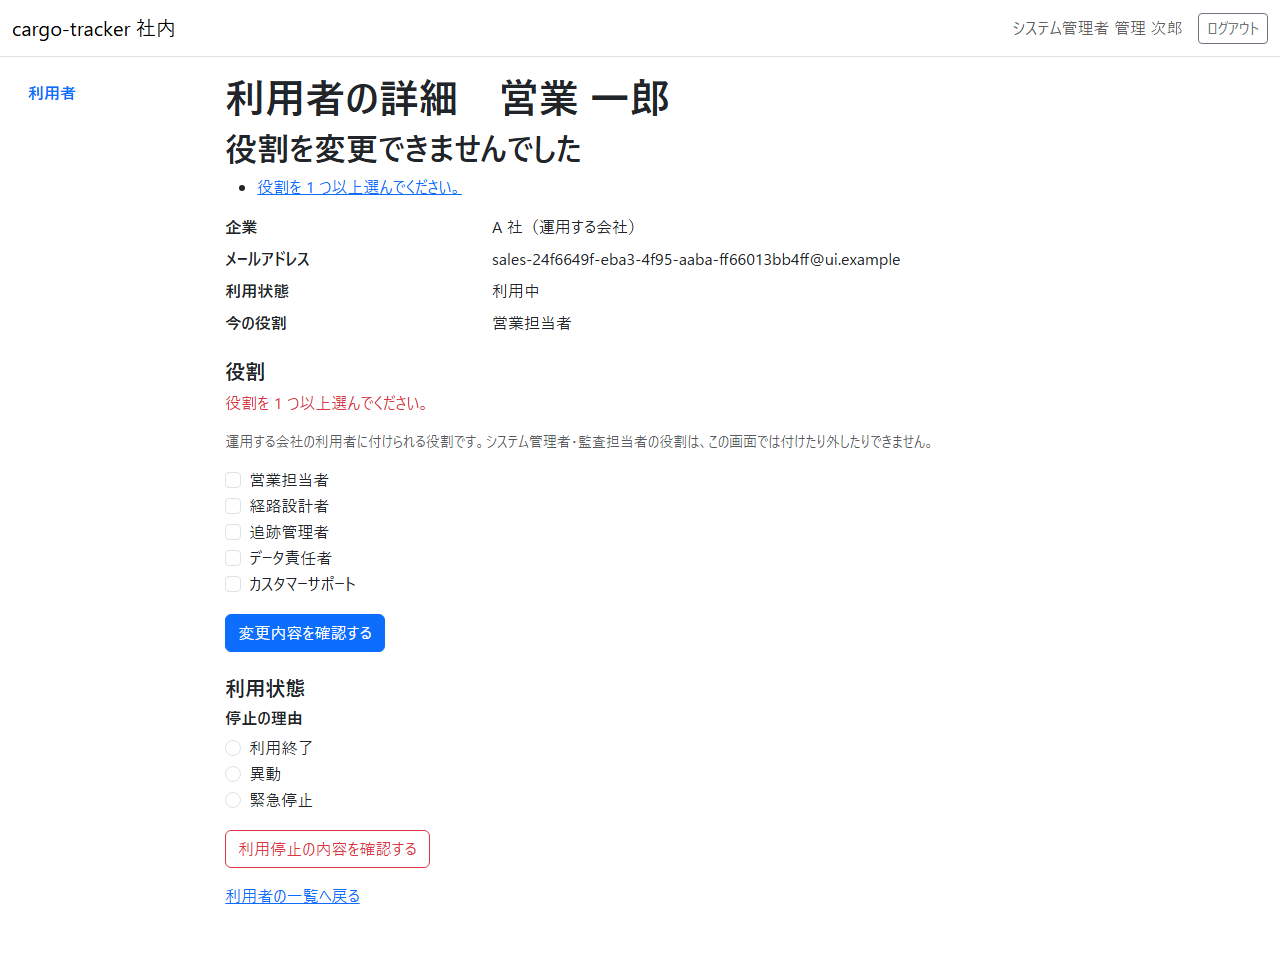
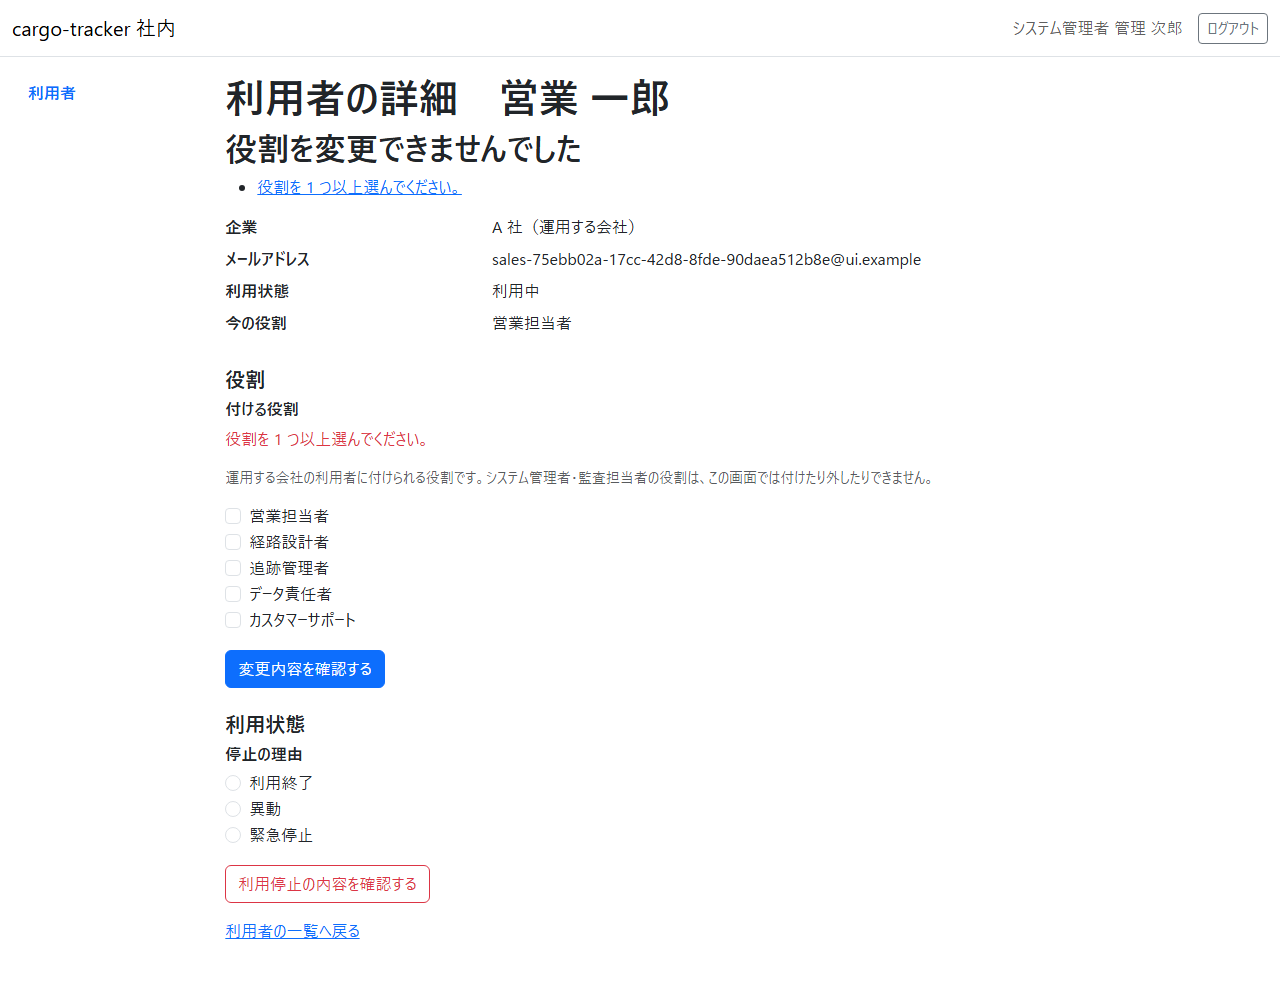
feat(identity): S-20 の役割の領域に見出し「役割」を付け、欄の名前を「付ける役割」にする
詳細の役割の領域を利用状態の領域と同じ形の section と h2「役割」にし、自分と
荷受人の企業の利用者の案内も領域の中に置いた。fieldset の legend は「付ける役割」。
先に画面の層の受入シナリオを足して落ちることを確かめた。マニュアル 11.2 の説明と
詳細を撮るキャプチャ 2 枚を撮り直した（ほかの画像の差分は戻した）。

Claude-Session: https://claude.ai/code/session_01LDW6HVmiazMbqbG4c8UQGq

diff --git a/apps/cargo-tracker/src/main/resources/templates/identity/users/detail.html b/apps/cargo-tracker/src/main/resources/templates/identity/users/detail.html
@@ -30,31 +30,35 @@
         <dt class="col-sm-3">今の役割</dt>
         <dd class="col-sm-9" id="current-roles" th:text="${currentRoles}">営業担当者</dd>
     </dl>
-    <p th:if="${self}" id="self-note">自分の役割は変更できません。ほかのシステム管理者に依頼してください。</p>
-    <p th:if="${!self and !assignable}" id="unassignable-note"
-       th:text="|${companyKindName}の利用者には役割を付けません。|">荷受人の企業の利用者には役割を付けません。</p>
-    <form th:if="${!self and assignable}" method="get"
-          th:action="@{/staff/users/{id}/role-changes/confirmation(id=${user.id.value})}">
-        <input type="hidden" name="version" th:value="${version}">
-        <input type="hidden" name="roles" th:each="role : ${keptRoles}" th:value="${role}">
-        <fieldset id="roles" th:attr="aria-describedby=${error != null and error.field} ? 'roles-error' : null">
-            <legend class="h5">役割</legend>
-            <p th:if="${error != null and error.field}" id="roles-error" class="text-danger" th:text="${error.text}">役割を 1 つ以上選んでください。</p>
-            <p class="form-text" th:text="|${companyKindName}の利用者に付けられる役割です。システム管理者・監査担当者の役割は、この画面では付けたり外したりできません。|">
-                運用する会社の利用者に付けられる役割です。
-            </p>
-            <div class="form-check" th:each="option : ${roleOptions}">
-                <input class="form-check-input" type="checkbox" name="roles"
-                       th:id="|role-${option.role.name()}|" th:value="${option.role.name()}"
-                       th:checked="${option.selected}">
-                <label class="form-check-label" th:for="|role-${option.role.name()}|"
-                       th:text="${option.role.displayName}">営業担当者</label>
-            </div>
-            <p th:unless="${#lists.isEmpty(keptRoles)}" class="form-text"
-               th:text="|この画面で変更しない役割（${keptRoleNames}）は、そのまま残ります。|">この画面で変更しない役割（監査担当者）は、そのまま残ります。</p>
-        </fieldset>
-        <button type="submit" class="btn btn-primary mt-3">変更内容を確認する</button>
-    </form>
+    <!--/* 役割の領域（Bolt 34f）。利用状態の領域と同じ形の見出しを付け、自分と荷受人の企業の利用者の案内も領域の中に置く */-->
+    <section class="mt-4" aria-labelledby="roles-title">
+        <h2 id="roles-title" class="h5">役割</h2>
+        <p th:if="${self}" id="self-note">自分の役割は変更できません。ほかのシステム管理者に依頼してください。</p>
+        <p th:if="${!self and !assignable}" id="unassignable-note"
+           th:text="|${companyKindName}の利用者には役割を付けません。|">荷受人の企業の利用者には役割を付けません。</p>
+        <form th:if="${!self and assignable}" method="get"
+              th:action="@{/staff/users/{id}/role-changes/confirmation(id=${user.id.value})}">
+            <input type="hidden" name="version" th:value="${version}">
+            <input type="hidden" name="roles" th:each="role : ${keptRoles}" th:value="${role}">
+            <fieldset id="roles" th:attr="aria-describedby=${error != null and error.field} ? 'roles-error' : null">
+                <legend class="h6">付ける役割</legend>
+                <p th:if="${error != null and error.field}" id="roles-error" class="text-danger" th:text="${error.text}">役割を 1 つ以上選んでください。</p>
+                <p class="form-text" th:text="|${companyKindName}の利用者に付けられる役割です。システム管理者・監査担当者の役割は、この画面では付けたり外したりできません。|">
+                    運用する会社の利用者に付けられる役割です。
+                </p>
+                <div class="form-check" th:each="option : ${roleOptions}">
+                    <input class="form-check-input" type="checkbox" name="roles"
+                           th:id="|role-${option.role.name()}|" th:value="${option.role.name()}"
+                           th:checked="${option.selected}">
+                    <label class="form-check-label" th:for="|role-${option.role.name()}|"
+                           th:text="${option.role.displayName}">営業担当者</label>
+                </div>
+                <p th:unless="${#lists.isEmpty(keptRoles)}" class="form-text"
+                   th:text="|この画面で変更しない役割（${keptRoleNames}）は、そのまま残ります。|">この画面で変更しない役割（監査担当者）は、そのまま残ります。</p>
+            </fieldset>
+            <button type="submit" class="btn btn-primary mt-3">変更内容を確認する</button>
+        </form>
+    </section>
     <!--/* 利用状態の領域（Bolt 34d。US-16 AC5）。役割の領域と別にし、荷受人の企業の利用者にも出す。自分と監督の役割の利用者には操作を出さない */-->
     <section class="mt-4" aria-labelledby="status-title">
         <h2 id="status-title" class="h5">利用状態</h2>

diff --git a/apps/cargo-tracker/src/test/java/com/example/cargotracker/ui/UserAdministrationUiSteps.java b/apps/cargo-tracker/src/test/java/com/example/cargotracker/ui/UserAdministrationUiSteps.java
@@ -136,6 +136,25 @@ public class UserAdministrationUiSteps {
         browser.checkAccessibility();
     }
 
+    @ならば("詳細に見出し {string} の領域と見出し {string} の領域があり、役割の領域の欄の名前は {string} である")
+    public void 役割の領域の見出しと欄の名前(String roles, String status, String field) {
+        Locator rolesRegion = region(roles);
+        assertThat(rolesRegion.getByRole(AriaRole.HEADING, new Locator.GetByRoleOptions().setLevel(2)))
+                .hasText(roles);
+        assertThat(rolesRegion.getByRole(
+                        AriaRole.GROUP,
+                        new Locator.GetByRoleOptions().setName(field).setExact(true)))
+                .isVisible();
+        assertThat(region(status).getByRole(AriaRole.HEADING, new Locator.GetByRoleOptions().setLevel(2)))
+                .hasText(status);
+    }
+
+    private Locator region(String name) {
+        return page().getByRole(
+                        AriaRole.REGION,
+                        new Page.GetByRoleOptions().setName(name).setExact(true));
+    }
+
     @ならば("{string} と示され、役割を選ぶ欄はない")
     public void 案内が示され欄がない(String message) {
         assertThat(page().locator("main")).containsText(message);

diff --git a/docs/manual/11-利用者の管理.md b/docs/manual/11-利用者の管理.md
@@ -4,7 +4,7 @@ title: "11 章 利用者の管理"
 description: "システム管理者が、利用者の一覧と詳細を確かめ、利用者の役割を確認の画面を経て付けたり外したりし、利用者の利用を停止し再開する手順です。"
 tags: [manual,cargo-tracker]
 status: draft
-generated: { by: anthropic/claude-opus-5-5, at: 2026-10-17T02:40:37Z }
+generated: { by: anthropic/claude-opus-5-5, at: 2026-10-18T12:20:32Z }
 ---
 
 # 11 章 利用者の管理
@@ -74,16 +74,16 @@ generated: { by: anthropic/claude-opus-5-5, at: 2026-10-17T02:40:37Z }
 | :--- | :--- | :--- |
 | ① | 企業 | 所属する企業と、その種類（荷主企業・荷受人の企業・運用する会社） |
 | ② | 今の役割 | 利用者がいま持つ役割 |
-| ③ | 役割 | 変更した後に持たせる役割に印を付けます。利用者の企業の種類に付けられる業務の役割だけが並びます（荷主企業の利用者は荷主担当者、運用する会社の利用者はほかの 5 つ） |
+| ③ | 役割（見出し「役割」の領域） | 「付ける役割」の欄で、変更した後に持たせる役割に印を付けます。利用者の企業の種類に付けられる業務の役割だけが並びます（荷主企業の利用者は荷主担当者、運用する会社の利用者はほかの 5 つ） |
 | ④ | 利用状態 | 利用中か利用停止か |
 | ⑤ | 変更内容を確認する | 選んだ役割で、変更の内容の確認へ進みます。まだ変更されません |
-| ⑥ | 利用状態（画面の下の領域） | 利用中の利用者には停止の理由（利用終了・異動・緊急停止）と「利用停止の内容を確認する」、停止中の利用者には「利用再開の内容を確認する」が並びます。押してもまだ停止・再開されません |
+| ⑥ | 利用状態（見出し「利用状態」の領域） | 利用中の利用者には停止の理由（利用終了・異動・緊急停止）と「利用停止の内容を確認する」、停止中の利用者には「利用再開の内容を確認する」が並びます。押してもまだ停止・再開されません |
 
 ### 操作手順
 
 役割を変えるとき:
 
-1. 変更した後に持たせる役割に印を付けます（外したい役割は印を外します）
+1. 「役割」の領域の「付ける役割」で、変更した後に持たせる役割に印を付けます（外したい役割は印を外します）
 2. 「変更内容を確認する」を押します
 
 利用を停止するとき:
@@ -93,11 +93,11 @@ generated: { by: anthropic/claude-opus-5-5, at: 2026-10-17T02:40:37Z }
 
 停止中の利用者の利用を再開するときは、「利用再開の内容を確認する」を押します。
 
-自分の詳細と、荷受人の企業の利用者の詳細には、役割を選ぶ欄がありません。「自分の役割は変更できません。ほかのシステム管理者に依頼してください。」または「荷受人の企業の利用者には役割を付けません。」と示されます。
+自分の詳細と、荷受人の企業の利用者の詳細には、「役割」の領域に役割を選ぶ欄がありません。「自分の役割は変更できません。ほかのシステム管理者に依頼してください。」または「荷受人の企業の利用者には役割を付けません。」と示されます。
 
 ### 注意・補足
 
-選び方が決まりに合わないときは、確認へ進まず、この画面の上に理由が示されます。
+選び方が決まりに合わないときは、確認へ進まず、この画面の上に理由が示されます。下の表の理由は、押すと「付ける役割」の欄へ移ります。
 
 ![役割の変更の誤り](assets/11-role-change-rejected.png)
 

diff --git a/docs/log.md b/docs/log.md
@@ -1,6 +1,7 @@
 # Docs Update Log
 
 ## 2026-10-18
+* **Update**: [11-利用者の管理](/manual/11-利用者の管理.md) を更新（anthropic/claude-opus-5-5）
 * **Update**: [release_plan](/development/cargo-tracker/release_plan.md) を更新（anthropic/claude-opus-5-5）
 * **Update**: [ui_design](/design/cargo-tracker/ui_design.md) を更新（anthropic/claude-opus-5-5）
 * **Update**: [test_strategy](/design/cargo-tracker/test_strategy.md) を更新（anthropic/claude-opus-5-5）
